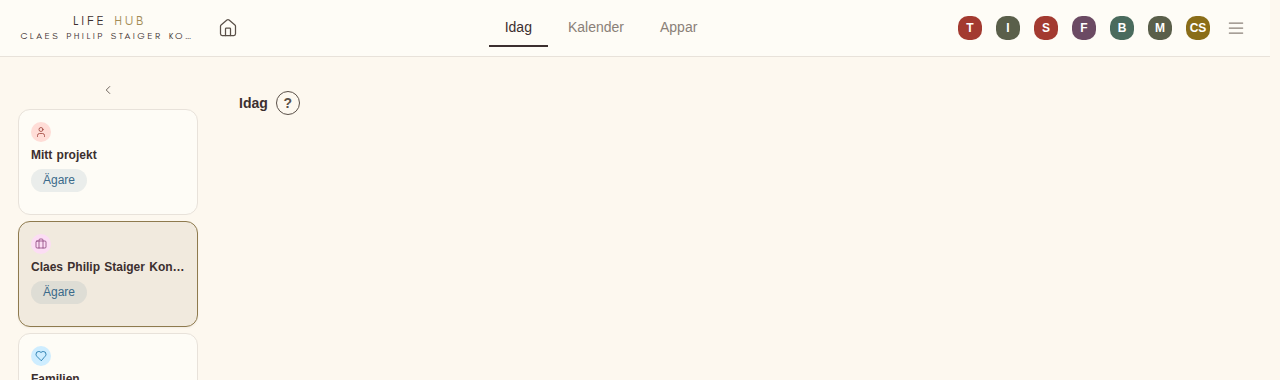
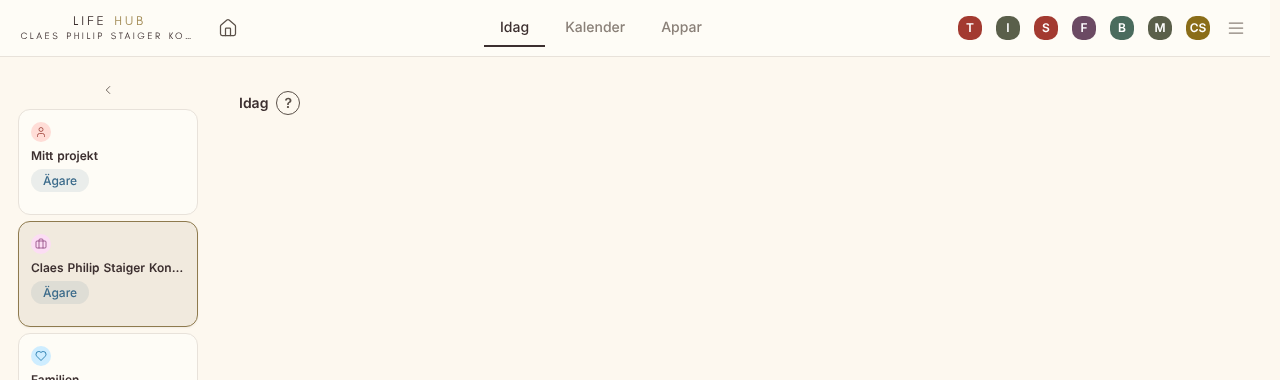
0.144.0: huset står kvar och lyser i översikten (#447)

diff --git a/src/components/OpsAppShell.jsx b/src/components/OpsAppShell.jsx
@@ -161,8 +161,8 @@ const ATGARDER_SMAL = 3;
  * Med hemikon och TRE åtgärder tränger klungan 12 px in i högerpaddingen vid 320 px: avataren hamnar 4 px från skärmkanten och
  * innehållet är bredare än raden. Det är "ryms inte". Åtgärden är den uppdraget pekade på: en åtgärd färre när hemikonen visas, så
  * att överskottet flyttar till bottenradens Meny som i dag (`flyttbara`). Ingen åtgärd försvinner: den är en rad i Menyn, och
- * provet kräver det. Utan hemikon (ingen `grupper.oversikt`, eller i översikten, där huvudet inte har några åtgärder) gäller
- * `ATGARDER_SMAL` som förut.
+ * provet kräver det. Utan hemikon (ingen `grupper.oversikt`) gäller `ATGARDER_SMAL` som förut. I översikten (0.144.0 ritar hemikonen
+ * också där) har huvudet inga åtgärder alls, så budgeten rör inte det läget.
  *
  * Budgeten är en siffra för alla telefonbredder, eftersom den bor i klasser (`hidden lg:contents`) och inte i en mätning vid
  * körning. Den kostar alltså den tredje åtgärden även vid 360 och 390 px, där den hade rymts. Det är priset för att inte ha två
@@ -669,27 +669,40 @@ function RowEntry({ entry, active, activeHref, onActivate, badgeText, classes, s
  */
 
 /**
- * Hemikonen i huvudet i en grupp (0.138.0): ett tryck gör exakt det raden Översikt i gruppväxlaren gör (`oversikt.onValj`).
+ * Hemikonen i huvudet (0.138.0, markerad i översikten 0.144.0): ett tryck gör exakt det raden Översikt i gruppväxlaren gör (`oversikt.onValj`).
  *
- * ⛔ HÄNDELSEN: CP 2026-10-22, "det är lite svårt att navigera sig tillbaka till hemgrupp / översikt." Hemikonen ritades bara i
+ * ⛔ HÄNDELSEN 0.138.0: CP 2026-10-22, "det är lite svårt att navigera sig tillbaka till hemgrupp / översikt." Hemikonen ritades bara i
  * översiktsläget (där växlarens knapp ÄR hemikonen). Inne i en grupp nådde man Översikten bara genom att öppna växlaren och leta
  * upp raden, och på dator (från `lg`) har växlaren ingen knapp alls, eftersom gruppanelen tar över: där fanns ingen väg.
  *
- * Ingen ny prop: knappen läser `grupper.oversikt`, och namnet kommer ur `oversikt.etikett` eller `ORD_OPSOVERSIKT`, samma ord som
- * raden i växlaren. Utan `grupper.oversikt` ritas den inte, och skalet är exakt som förut. I översiktsläget ritas den inte heller:
- * där är växlarens knapp hemikonen, markerad som aktuell (`aria-current="page"`), och en andra hemikon intill den hade varit två
- * knappar för samma plats. 44 px träffyta på alla bredder.
+ * ⛔ HÄNDELSEN 0.144.0: CP 2026-10-25, "huset ska stå kvar och lysa när man är hemma." Före det var hemknappen en grupp-sak och
+ * växlarens knapp bar huset i översikten, utan att synas som aktuell (bara `aria-current`, ingen färg). En knapp som byter plats eller
+ * försvinner när man kommer fram får en att undra vart den tog vägen; en som lyser visar var man är. Nu ritas hemknappen i BÅDA
+ * lägena, på samma plats, och `markerad` (översiktsläget) gör den till den aktuella platsen: `aria-current="page"` och accentfärg på
+ * en sänkt yta (`text-accent`, `bg-sunken`, ramverkets egna tokens). Växlaren bär inte längre huset (se `OpsGruppvaxlare`), så det
+ * finns ett hus i huvudet och aldrig två.
  *
- * @param {{ etikett: string, onValj: () => void }} props
+ * Ett tryck i markerat läge anropar `onValj` som i en grupp, och ingenting annat: det är minst kod, och det är rätt för en hem-knapp
+ * (ett tryck på hem när man redan är hemma tar en appvy som ligger under Översikten tillbaka till dess början; i vanliga fall är det
+ * en no-op, eftersom `oversikt.onValj` är idempotent: appen går ur gruppen, och där är den redan).
+ *
+ * Ingen ny prop: knappen läser `grupper.oversikt`, och namnet kommer ur `oversikt.etikett` eller `ORD_OPSOVERSIKT`, samma ord som
+ * raden i växlaren. Utan `grupper.oversikt` ritas den inte, och skalet är exakt som förut. 44 px träffyta på alla bredder.
+ *
+ * @param {{ etikett: string, onValj: () => void, markerad?: boolean }} props
  */
-function HemKnapp({ etikett, onValj }) {
+function HemKnapp({ etikett, onValj, markerad = false }) {
   return (
     <button
       type="button"
       data-hemikon=""
       aria-label={etikett}
+      aria-current={markerad ? "page" : undefined}
       onClick={onValj}
-      className="flex size-11 shrink-0 items-center justify-center rounded-md text-ink-secondary hover:bg-sunken focus-visible:outline-2 focus-visible:outline-offset-2 focus-visible:outline-accent"
+      className={cx(
+        "flex size-11 shrink-0 items-center justify-center rounded-md focus-visible:outline-2 focus-visible:outline-offset-2 focus-visible:outline-accent",
+        markerad ? "bg-sunken text-accent" : "text-ink-secondary hover:bg-sunken",
+      )}
     >
       <HusIkon size={20} />
     </button>
@@ -1832,6 +1845,8 @@ function OpsAppShellRitad({
   const stannarIHuvudet = (/** @type {import("react").ReactElement} */ a) =>
     a.type === OpsIconLink && /** @type {any} */ (a.props).kvarIHuvudet === true;
   // ⛔ 0.138.0: MED HEMIKON I HUVUDET TAR TELEFONEN EN ÅTGÄRD MINDRE, se `ATGARDER_SMAL_HEM`.
+  // 0.144.0: hemikonen ritas nu också i översikten, men budgeten gäller åtgärderna och de ritas inte där (`iOversikt ? null : atgarderIHuvud`),
+  // så villkoret är oförändrat med flit: översiktsläget får samma fördelning mellan huvud och Meny som förut.
   const harHemikon = Boolean(grupper?.oversikt) && !grupper?.oversikt?.aktiv;
   const atgSmal = harHemikon ? ATGARDER_SMAL_HEM : ATGARDER_SMAL;
   const flyttbara = atgardsLista.filter((a, i) => i >= atgSmal && a.type === OpsIconLink && !stannarIHuvudet(a));
@@ -2420,9 +2435,10 @@ function OpsAppShellRitad({
             >
               {varumarke}
             </a>
-            {/* ⛔ 0.138.0: HEMIKONEN I GRUPPLÄGET, se `HemKnapp`. Under `lg` är märket borta och hemikonen står först, före gruppväxlaren. Från
-                `lg` står den EFTER märket och inte före: märkesrutans vänsterkant ska ligga på panelens (`check-skalyta` 12, SS `AppHeader.jsx:174`). */}
-            {grupper?.oversikt && !iOversikt ? <HemKnapp etikett={oversiktEtikett} onValj={grupper.oversikt.onValj} /> : null}
+            {/* ⛔ 0.138.0: HEMIKONEN, se `HemKnapp`. Under `lg` är märket borta och hemikonen står först, före gruppväxlaren. Från
+                `lg` står den EFTER märket och inte före: märkesrutans vänsterkant ska ligga på panelens (`check-skalyta` 12, SS `AppHeader.jsx:174`).
+                ⛔ 0.144.0: RITAS OCKSÅ I ÖVERSIKTEN, markerad (CP 2026-10-25: huset ska stå kvar och lysa när man är hemma). */}
+            {grupper?.oversikt ? <HemKnapp etikett={oversiktEtikett} onValj={grupper.oversikt.onValj} markerad={iOversikt} /> : null}
             {/* ⛔ 0.52.0: HUBBMENYN VID MÄRKET, SAMMA BRYTPUNKT SOM GRUPPANELEN (`lg`). Under `lg` ligger hubbarna i gruppväxlarens ark
                 i stället, på samma knapp (CP 2026-10-04: mobilen har bara en plats). Två vägar på samma skärmbredd hade varit två
                 sanningar om var man byter. Utan `grupper` finns inget ark, och då står menyn kvar på alla bredder. */}

diff --git a/src/__tests__/hemikon.test.jsx b/src/__tests__/hemikon.test.jsx
@@ -2,6 +2,7 @@ import { describe, it, expect, vi } from "vitest";
 import { fireEvent, render, screen, within } from "@testing-library/react";
 import { OpsAppShell } from "../components/OpsAppShell.jsx";
 import { OpsIconLink } from "../components/OpsIconLink.jsx";
+import { OpsGruppvaxlare } from "../components/OpsGruppanel.jsx";
 
 /**
  * 0.138.0, CP 2026-10-22: "det är lite svårt att navigera sig tillbaka till hemgrupp / översikt." Hemikonen i huvudet i varje grupp.
@@ -10,6 +11,10 @@ import { OpsIconLink } from "../components/OpsIconLink.jsx";
  *
  * ⛔ BÅDA RIKTNINGARNA i varje prov: med `oversikt` finns hemikonen, utan den gör den inte det; i en grupp är den inte markerad,
  * i översikten är den det; med hemikon är budgeten en åtgärd mindre, utan den som förut.
+ *
+ * 0.144.0, CP 2026-10-25: huset står kvar och lyser i översikten (en knapp som försvinner får en att undra vart den tog vägen, en
+ * som lyser visar var man är). Före det var växlarens knapp hemikonen i översikten; nu är hemknappen det i alla lägen, och växlaren
+ * visar sitt vanliga utseende, så att det aldrig finns två hus bredvid varandra.
  */
 
 const fasta = { idag: { href: "/idag" }, kalender: { href: "/kalender" }, hub: { href: "/hub" } };
@@ -48,6 +53,8 @@ function Skal({ oversikt = { aktiv: false, onValj: () => {} }, onValj = () => {}
 
 const hemknappar = () => document.querySelectorAll("[data-hemikon]");
 const huvud = () => screen.getByRole("banner");
+/** Husikonerna (lucide `Home`/`House`) som ritas i huvudet, vilken knapp de än sitter i. */
+const husIHuvud = () => huvud().querySelectorAll('svg[class*="lucide-house"], svg[class*="lucide-home"]');
 
 describe("Hemikonen i en grupp (0.138.0)", () => {
   it("⛔ med oversikt finns en hemknapp i huvudet i gruppläget, före gruppväxlaren, utan den finns ingen", () => {
@@ -116,16 +123,78 @@ describe("Hemikonen i en grupp (0.138.0)", () => {
     expect(within(huvud()).getByRole("button", { name: "Overview" })).toBeTruthy();
   });
 
-  it("⛔ hemikonen är inte markerad i en grupp, och i översikten är den enda hemikonen markerad som aktuell", () => {
+  it("⛔ hemikonen är inte markerad i en grupp, och i översikten står den kvar, markerad som aktuell (0.144.0)", () => {
     const { unmount } = render(<Skal />);
+    expect(hemknappar()).toHaveLength(1);
     expect(within(huvud()).getByRole("button", { name: "Översikt" }).getAttribute("aria-current")).toBeNull();
     unmount();
     render(<Skal oversikt={{ aktiv: true, onValj: () => {} }} />);
-    // Exakt EN hemikon: växlarens knapp, som är hemikonen i översikten. Ingen andra bredvid.
+    // Huset STÅR KVAR i översikten (CP 2026-10-25): exakt en hemknapp, namngiven och markerad som aktuell.
     expect(hemknappar()).toHaveLength(1);
     const hem = /** @type {HTMLElement} */ (hemknappar()[0]);
+    expect(hem).toBe(within(huvud()).getByRole("button", { name: "Översikt" }));
     expect(hem.getAttribute("aria-current")).toBe("page");
-    expect(hem.getAttribute("aria-label")).toBe("Byt grupp, nu: Översikt");
+  });
+
+  it("⛔ markerad hemikon lyser med ramverkets tokens (text-accent, bg-sunken), och en omarkerad gör det inte", () => {
+    const { unmount } = render(<Skal />);
+    const omarkerad = within(huvud()).getByRole("button", { name: "Översikt" }).className;
+    expect(omarkerad).not.toContain("text-accent");
+    expect(omarkerad).toContain("text-ink-secondary");
+    unmount();
+    render(<Skal oversikt={{ aktiv: true, onValj: () => {} }} />);
+    const markerad = within(huvud()).getByRole("button", { name: "Översikt" }).className;
+    expect(markerad).toContain("text-accent");
+    expect(markerad).toContain("bg-sunken");
+    expect(markerad).not.toContain("text-ink-secondary");
+  });
+
+  it("⛔ aldrig två husikoner i huvudet: i översikten är växlarens knapp inget hus, och ingen personikon heller", () => {
+    const { unmount } = render(<Skal />);
+    expect(husIHuvud()).toHaveLength(1);
+    unmount();
+    render(<Skal oversikt={{ aktiv: true, onValj: () => {} }} />);
+    // Ett hus, och det sitter i hemknappen. Växlaren bär inget hus, inget `data-hemikon` och ingen `aria-current`.
+    expect(husIHuvud()).toHaveLength(1);
+    expect(hemknappar()[0].querySelector("svg")).toBe(husIHuvud()[0]);
+    const vaxlare = within(huvud()).getByRole("button", { name: /^Byt grupp, nu:/ });
+    expect(vaxlare.hasAttribute("data-hemikon")).toBe(false);
+    expect(vaxlare.hasAttribute("aria-current")).toBe(false);
+    expect(vaxlare.querySelector('svg[class*="lucide-house"], svg[class*="lucide-home"]')).toBeNull();
+    // Inte heller en personikon: under md står avataren bredvid, och två personer i huvudet vore fel.
+    expect(vaxlare.querySelector('svg[class*="lucide-user"]:not([class*="lucide-users"])')).toBeNull();
+  });
+
+  it("⛔ i översikten visar växlaren vad den gör (GruppIkon, Byt grupp) och inte \"Ingen grupp\" eller bakgrundsgruppen, men skärmläsaren hör \"nu: Översikt\"", () => {
+    const { unmount } = render(<Skal oversikt={{ aktiv: true, onValj: () => {} }} aktiv="g2" />);
+    // `aktiv` är den gruppen appen håller i bakgrunden: i översikten ska den inte stå som vald.
+    const iOversikt = within(huvud()).getByRole("button", { name: /^Byt grupp, nu:/ });
+    expect(iOversikt.getAttribute("aria-label")).toBe("Byt grupp, nu: Översikt");
+    expect(iOversikt.textContent).toContain("Byt grupp");
+    expect(iOversikt.textContent).not.toContain("Ingen grupp");
+    expect(iOversikt.textContent).not.toContain("Claes Philip");
+    expect(iOversikt.querySelector('svg[class*="lucide-users"]')).not.toBeNull();
+    expect(husIHuvud()).toHaveLength(1);
+    unmount();
+    render(<Skal aktiv="g2" />);
+    expect(within(huvud()).getByRole("button", { name: /^Byt grupp, nu: Claes Philip/ })).toBeTruthy();
+  });
+
+  it("personen utan grupp (0.35.0) ser fortfarande \"Ingen grupp\" med personikon, oförändrat", () => {
+    render(<OpsGruppvaxlare grupper={[]} aktiv="" onValj={() => {}} />);
+    const knapp = screen.getByRole("button", { name: "Byt grupp, nu: Ingen grupp" });
+    expect(knapp.textContent).toContain("Ingen grupp");
+    expect(knapp.querySelector('svg[class*="lucide-user"]:not([class*="lucide-users"])')).not.toBeNull();
+    expect(knapp.querySelector('svg[class*="lucide-users"]')).toBeNull();
+  });
+
+  it("⛔ ett tryck på den markerade hemikonen anropar oversikt.onValj som i en grupp, och väljer ingen grupp", () => {
+    const onOversikt = vi.fn();
+    const onValj = vi.fn();
+    render(<Skal oversikt={{ aktiv: true, onValj: onOversikt }} onValj={onValj} />);
+    fireEvent.click(within(huvud()).getByRole("button", { name: "Översikt" }));
+    expect(onOversikt).toHaveBeenCalledTimes(1);
+    expect(onValj).not.toHaveBeenCalled();
   });
 
   it("hemikonen är 44 px stor (size-11) så att den träffas med en tumme", () => {

diff --git a/src/components/OpsGruppanel.jsx b/src/components/OpsGruppanel.jsx
@@ -5,7 +5,7 @@ import { OpsIdentity } from "./OpsIdentity.jsx";
 import { OpsCountBadge } from "./counter.jsx";
 import { OpsPanel } from "./OpsPanel.jsx";
 import { OpsPill } from "./OpsPill.jsx";
-import { AndraIkon, ChevronVansterIkon, ChevronHogerIkon, HusIkon, InfoIkon, PersonIkon, PlusIkon } from "./icons.jsx";
+import { AndraIkon, ChevronVansterIkon, ChevronHogerIkon, GruppIkon, HusIkon, InfoIkon, PersonIkon, PlusIkon } from "./icons.jsx";
 import { text } from "../lib/sprak.js";
 import { forvalda } from "../lib/ord.js";
 import { gruppmarkeProps } from "../lib/gruppikoner.js";
@@ -698,8 +698,15 @@ export function OpsGruppvaxlare({
   const oversiktNamn = oversikt ? oversikt.etikett || forvalda(ORD_OPSOVERSIKT, sprak ?? "").etikett : "";
   const aktivRad = iOversikt ? undefined : mina.find((g) => g.id === aktiv);
   // ⛔ UTAN AKTIV RAD HAR PERSONEN INGEN GRUPP (0.35.0): det enda tillståndet utan aktiv grupp, och det får ett eget namn, inte ett läge.
+  // ⛔ 0.144.0: I ÖVERSIKTEN VISAR KNAPPEN VAD DEN GÖR (`GruppIkon` och `etikett`, "Byt grupp"), VARKEN ETT HUS ELLER "INGEN GRUPP".
+  // Huset är hemknappen i skalet (`HemKnapp`), markerad i översikten (CP 2026-10-25: huset ska stå kvar och lysa), och en andra husikon
+  // bredvid den hade varit två hus för samma plats. "Ingen grupp" (0.35.0) är ett EGET tillstånd, personen som inte är med i någon, och
+  // lånas inte hit: den som HAR grupper och står hemma skulle läsa det som att grupperna är borta. Och inte `PersonIkon`: under `md` är
+  // det knappen bredvid avataren, alltså två personer i huvudet. Inte bakgrundsgruppen heller: `aktiv` är den grupp appen minns, och att
+  // visa den som vald skulle säga att man är i den (0.112.0). Skärmläsaren hör ändå var man är: "nu: Översikt" (`oversiktNamn`).
   const aktivtNamn = iOversikt ? oversiktNamn : aktivRad ? text(aktivRad.namn, sprak) : ingenGruppEtikett;
-  const Tomikon = iOversikt ? HusIkon : PersonIkon;
+  const synligtNamn = iOversikt ? etikett : aktivtNamn;
+  const Tomikon = iOversikt ? GruppIkon : PersonIkon;
   const [oppet, setOppet] = useState(false);
 
   return (
@@ -720,11 +727,8 @@ export function OpsGruppvaxlare({
         <button
           type="button"
           aria-label={`${etikett}, ${nuEtikett}: ${aktivtNamn}`}
-          // ⛔ 0.138.0: I ÖVERSIKTEN ÄR DEN HÄR KNAPPEN SJÄLV HEMIKONEN, och den är markerad som aktuell. I en grupp ritar skalet en egen
-          // hemknapp före den (`HemKnapp` i OpsAppShell); där finns ingen andra hemikon i översikten, för två knappar på samma plats vore
-          // en för mycket. `data-hemikon` är handtaget som båda bär, så att ett prov (och en app) hittar hemikonen i båda lägena.
-          aria-current={iOversikt ? "page" : undefined}
-          data-hemikon={iOversikt ? "" : undefined}
+          // ⛔ 0.138.0 till 0.143.0 var den här knappen hemikonen i översikten (`aria-current="page"`, `data-hemikon`). Sedan 0.144.0 är hemikonen
+          // alltid skalets `HemKnapp`, markerad i översikten, och den här knappen är bara växlaren: ett hus i huvudet, aldrig två.
           className="flex size-11 shrink-0 items-center justify-center rounded-md text-etikett font-medium text-ink md:size-auto md:min-h-11 md:max-w-40 md:justify-start md:gap-2 md:px-2 md:hover:bg-sunken"
         >
           {/* ⛔ 0.31.1: UNDER `md` ÄR KNAPPEN GRUPPMÄRKET OCH INGET ANNAT, på loggans plats längst till vänster (CP 2026-09-29 18:40:
@@ -740,7 +744,7 @@ export function OpsGruppvaxlare({
               Konsulting Aktiebolag" låg ovanpå "Idag"; fanns före hemikonen, som flyttade namnet 52 px åt höger och gjorde det värre). */}
           <span className="hidden min-w-0 items-center gap-2 md:flex">
             {!aktivRad ? <Tomikon size={18} /> : <OpsIdentity name={aktivtNamn} seed={aktiv} imageUrl={aktivRad?.bild || undefined} {...gruppmarkeProps(aktivRad)} size="sm" />}
-            <span className="min-w-0 truncate">{aktivtNamn}</span>
+            <span className="min-w-0 truncate">{synligtNamn}</span>
           </span>
         </button>
       }

diff --git a/src/__tests__/oversikt.test.jsx b/src/__tests__/oversikt.test.jsx
@@ -48,6 +48,8 @@ describe("Översiktsläget i skalet (0.112.0)", () => {
     // Gruppanelens lista (dator) ritas inte: den enda grupplistan är växlarens, och den är stängd.
     expect(screen.queryByRole("list", { name: "Mina grupper" })).toBeNull();
     expect(screen.getByRole("link", { name: "Min profil" })).toBeTruthy();
+    // 0.144.0: huset står kvar och lyser (hemknappen, markerad), och växlaren visar vad den gör (Byt grupp), med skärmläsarnamnet "nu: Översikt".
+    expect(screen.getByRole("button", { name: "Översikt" }).getAttribute("aria-current")).toBe("page");
     expect(screen.getByRole("button", { name: "Byt grupp, nu: Översikt" })).toBeTruthy();
     expect(screen.getByText("innehåll")).toBeTruthy();
   });
@@ -83,7 +85,8 @@ describe("Raden Översikt i gruppväxlaren (0.112.0)", () => {
   it("ordtabellen: engelska ger Overview, och utan oversikt finns ingen rad", async () => {
     expect(ORD_OPSOVERSIKT.etikett).toEqual({ sv: "Översikt", en: "Overview" });
     const { unmount } = render(<OpsGruppvaxlare grupper={lista} aktiv="g1" onValj={() => {}} sprak="en" oversikt={{ aktiv: true, onValj: () => {} }} />);
-    expect(screen.getByRole("button", { name: /Overview$/ })).toBeTruthy();
+    await userEvent.setup().click(screen.getByRole("button", { name: /^Byt grupp/ }));
+    expect(screen.getByRole("button", { name: "Overview" })).toBeTruthy();
     unmount();
     render(<OpsGruppvaxlare grupper={lista} aktiv="g1" onValj={() => {}} />);
     await userEvent.setup().click(screen.getByRole("button", { name: "Byt grupp, nu: Bolaget" }));

diff --git a/README.md b/README.md
@@ -1228,7 +1228,7 @@ oförändrat):
 |---|---|
 | **1024 px och uppåt (`lg`)** | `OpsGruppanel`, en vänsterkolumn med ett kort per grupp och "Skapa grupp" sist. Ingen rad "Alla mina grupper" (0.35.0, #190). Kollapsbar till en smal remsa med bara märkena |
 | **Under 1024 px** | Ingen kolumn. I stället en `OpsGruppvaxlare`-knapp i headern (märke plus den aktiva gruppens namn), som öppnar SAMMA lista i `OpsPanel`s ark/rullgardin, i en enklare form (namn, medlemsantal, rollpill, ingen info-knapp och ingen avatarrad). ⛔ **Arket har ingen "Skapa grupp" (0.37.0, CP 2026-09-30)**: det är för att byta grupp, och en ny grupp skapas med plussets "Ny grupp". `OpsGruppvaxlare` tar inte `onSkapa` eller `skapaEtikett`; utan grupper säger arket det och pekar på plusset (`tomText`). ⛔ **Pennan (0.58.0)** ligger bredvid raden för `roll` `agare` eller `admin` när `onRedigera` finns (skalet ger samma callback som panelen, `skapa.redigeraGrupp` först). En medlem ser ingen penna. Arkets underkant är `--safe-bottom-ark` (minst 34px), så sista raden syns ovanför hemindikatorn också när `env(safe-area-inset-bottom)` är 0, och listan rullar när den inte ryms. |
-| **Översikten (0.112.0)** | `grupper.oversikt: { aktiv, onValj, etikett? }` gör läget `ingenGrupp` valbart (cllp/lifehub.app#319). Att välja Översikten anropar `onValj` (appen går ur gruppen); växlaren har raden **Översikt** överst med hemikon i översiktsläget, men inte i en grupp där hemikonen i huvudet redan ritas (0.139.0, en väg och inte två). Med `aktiv` ritar skalet hemikonen till vänster på alla bredder (växlarens knapp, markerad `aria-current="page"`) och profilen till höger, och inga flikar, inget plus, ingen mikrofon, inga `actions`, ingen gruppanel och ingen bottenrad. Ordet kommer ur `ORD_OPSOVERSIKT` (sv "Översikt", en "Overview"). ⛔ **0.138.0, hemikon i varje grupp:** är `oversikt` given ritas en hemknapp (hus, 44 px, `data-hemikon`) längst till vänster i huvudet också i gruppläget, före gruppväxlaren (från `lg` efter märket), och ett tryck anropar `oversikt.onValj`. Växlarens ark har då ingen egen rad Översikt (0.139.0; i översiktsläget är raden kvar, vald). Namnet är `oversikt.etikett` eller `ORD_OPSOVERSIKT`. Med hemikon bär huvudet under `md` högst två ikonåtgärder (annars tre), resten är rader i bottenradens Meny; siffran är mätt vid konstanten `ATGARDER_SMAL_HEM`. Vakten `check:hemikon` mäter huvudet vid 320 till 1280 px. ⛔ **0.113.0:** med `oversikt.hemgrupp` (ett id i `lista`) har översikten gruppens bottenrad, och ett tryck i den anropar `onValj(hemgrupp)` före `onNavigate`. |
+| **Översikten (0.112.0)** | `grupper.oversikt: { aktiv, onValj, etikett? }` gör läget `ingenGrupp` valbart (cllp/lifehub.app#319). Att välja Översikten anropar `onValj` (appen går ur gruppen); växlaren har raden **Översikt** överst med hemikon i översiktsläget, men inte i en grupp där hemikonen i huvudet redan ritas (0.139.0, en väg och inte två). Med `aktiv` ritar skalet hemikonen till vänster på alla bredder (0.144.0: skalets egen hemknapp, markerad `aria-current="page"` och lysande i `text-accent` på `bg-sunken`; förut var det växlarens knapp, som nu visar `GruppIkon` och "Byt grupp", `aria-label` "Byt grupp, nu: Översikt", så att det bara finns ett hus) och profilen till höger, och inga flikar, inget plus, ingen mikrofon, inga `actions`, ingen gruppanel och ingen bottenrad. Ordet kommer ur `ORD_OPSOVERSIKT` (sv "Översikt", en "Overview"). ⛔ **0.138.0, hemikon i varje grupp:** är `oversikt` given ritas en hemknapp (hus, 44 px, `data-hemikon`) längst till vänster i huvudet också i gruppläget, före gruppväxlaren (från `lg` efter märket), och ett tryck anropar `oversikt.onValj`. ⛔ 0.144.0: samma knapp står kvar i översiktsläget, markerad (CP 2026-10-25, huset ska stå kvar och lysa). Växlarens ark har då ingen egen rad Översikt (0.139.0; i översiktsläget är raden kvar, vald). Namnet är `oversikt.etikett` eller `ORD_OPSOVERSIKT`. Med hemikon bär huvudet under `md` högst två ikonåtgärder (annars tre), resten är rader i bottenradens Meny; siffran är mätt vid konstanten `ATGARDER_SMAL_HEM`. Vakten `check:hemikon` mäter huvudet vid 320 till 1280 px. ⛔ **0.113.0:** med `oversikt.hemgrupp` (ett id i `lista`) har översikten gruppens bottenrad, och ett tryck i den anropar `onValj(hemgrupp)` före `onNavigate`. |
 
 **Hubbar ovanför grupperna (0.52.0, cllp/lifehub.app#27).** `hubbar` på `OpsAppShell`, `{ aktiv, lista: [{ id, namn, href }], allaHref }`,
 är instanserna personen får öppna. Under 1024 px börjar gruppväxlarens ark med hubbarna och grupperna står under

diff --git a/CHANGELOG.md b/CHANGELOG.md
@@ -16,6 +16,18 @@ anteckningar är en version ingen kan välja att hoppa över.
   här att någon tittar mindre på skärmen, eller mer? Följer med till konsumenternas
   kanonkopia vid nästa utgivning och ompinning.
 
+## 0.144.0
+
+### Huset står kvar och lyser när man är hemma
+
+CP 2026-10-25: "huset ska stå kvar och lysa när man är hemma, i stället för att försvinna." En knapp som byter plats eller försvinner när man kommer fram får en att undra vart den tog vägen; en som lyser visar var man är. **Inte brytande i API:** inga nya props. **Synlig ändring** för den som ritar `OpsGruppvaxlare` direkt med `oversikt.aktiv` (se nedan).
+
+- **Hemknappen ritas också i översikten, markerad.** Före 0.144.0 ritade skalet hemknappen bara i en grupp, och i översikten var det växlarens knapp som bar huset, med `aria-current="page"` men utan att synas som aktuell. Nu är hemknappen skalets `HemKnapp` i båda lägena, på samma plats (före växlaren under `lg`, efter märket från `lg`). I översikten bär den `aria-current="page"` och lyser med ramverkets egna tokens (`text-accent` på `bg-sunken`); i en grupp är den som förut (`text-ink-secondary`, ingen markering). Ett tryck anropar `oversikt.onValj` i båda lägena: i översikten är det i vanliga fall en no-op (appen går ur gruppen, och där är den redan) och annars en väg hem för en appvy som ligger under Översikten. Det var minst kod och ingen särgren.
+- **Växlaren bär inte längre huset i översikten, så det finns aldrig två.** Mätt i koden: växlarens knapp använde `HusIkon` och `data-hemikon` i översikten, så en hemknapp bredvid den hade gett två hus bredvid varandra. Växlaren visar nu vad den gör: `GruppIkon` och namnet `etikett` ("Byt grupp"), med `aria-label` "Byt grupp, nu: Översikt" så att en skärmläsare hör var man är. Inte "Ingen grupp" och inte `PersonIkon`: "Ingen grupp" (0.35.0) är personen utan grupp och är oförändrad, och den som har grupper och står hemma hade läst det som att grupperna är borta; under `md` hade en personikon dessutom stått bredvid avataren. Inte bakgrundsgruppen heller: `aktiv` är den grupp appen minns, och att visa den som vald hade sagt att man är i den. Raden Översikt i arket är kvar, vald.
+- **Synlig ändring för `OpsGruppvaxlare` direkt:** med `oversikt={{ aktiv: true, ... }}` utan skalet ritades förut ett hus i knappen och namnet "Översikt"; nu ritas `GruppIkon` och "Byt grupp" (`aria-label` oförändrat "Byt grupp, nu: Översikt").
+- **Breddbudgeten rörs inte.** I översikten har huvudet inga åtgärder, bara hemknapp, växlare och profil, så `ATGARDER_SMAL_HEM` gäller som förut för gruppläget (mätt av `check:hemikon`, som nu också kräver exakt en markerad hemknapp i översikten och ingen markerad i en grupp).
+- **Prov åt båda håll** i `hemikon.test.jsx` och `oversikt.test.jsx`: i översikten exakt en `[data-hemikon]` med `aria-current="page"` och accentfärg, i en grupp en utan markering, och aldrig två husikoner i huvudet. Rött utan ändringen (8 prov, och `check:hemikon` med "2 husikoner i huvudet, väntat 1"), grönt med (se PR:en).
+
 ## 0.143.0
 
 ### Taggkomponenter utlyfta ur Biblioteket och dubbelriktade grupptaggar
